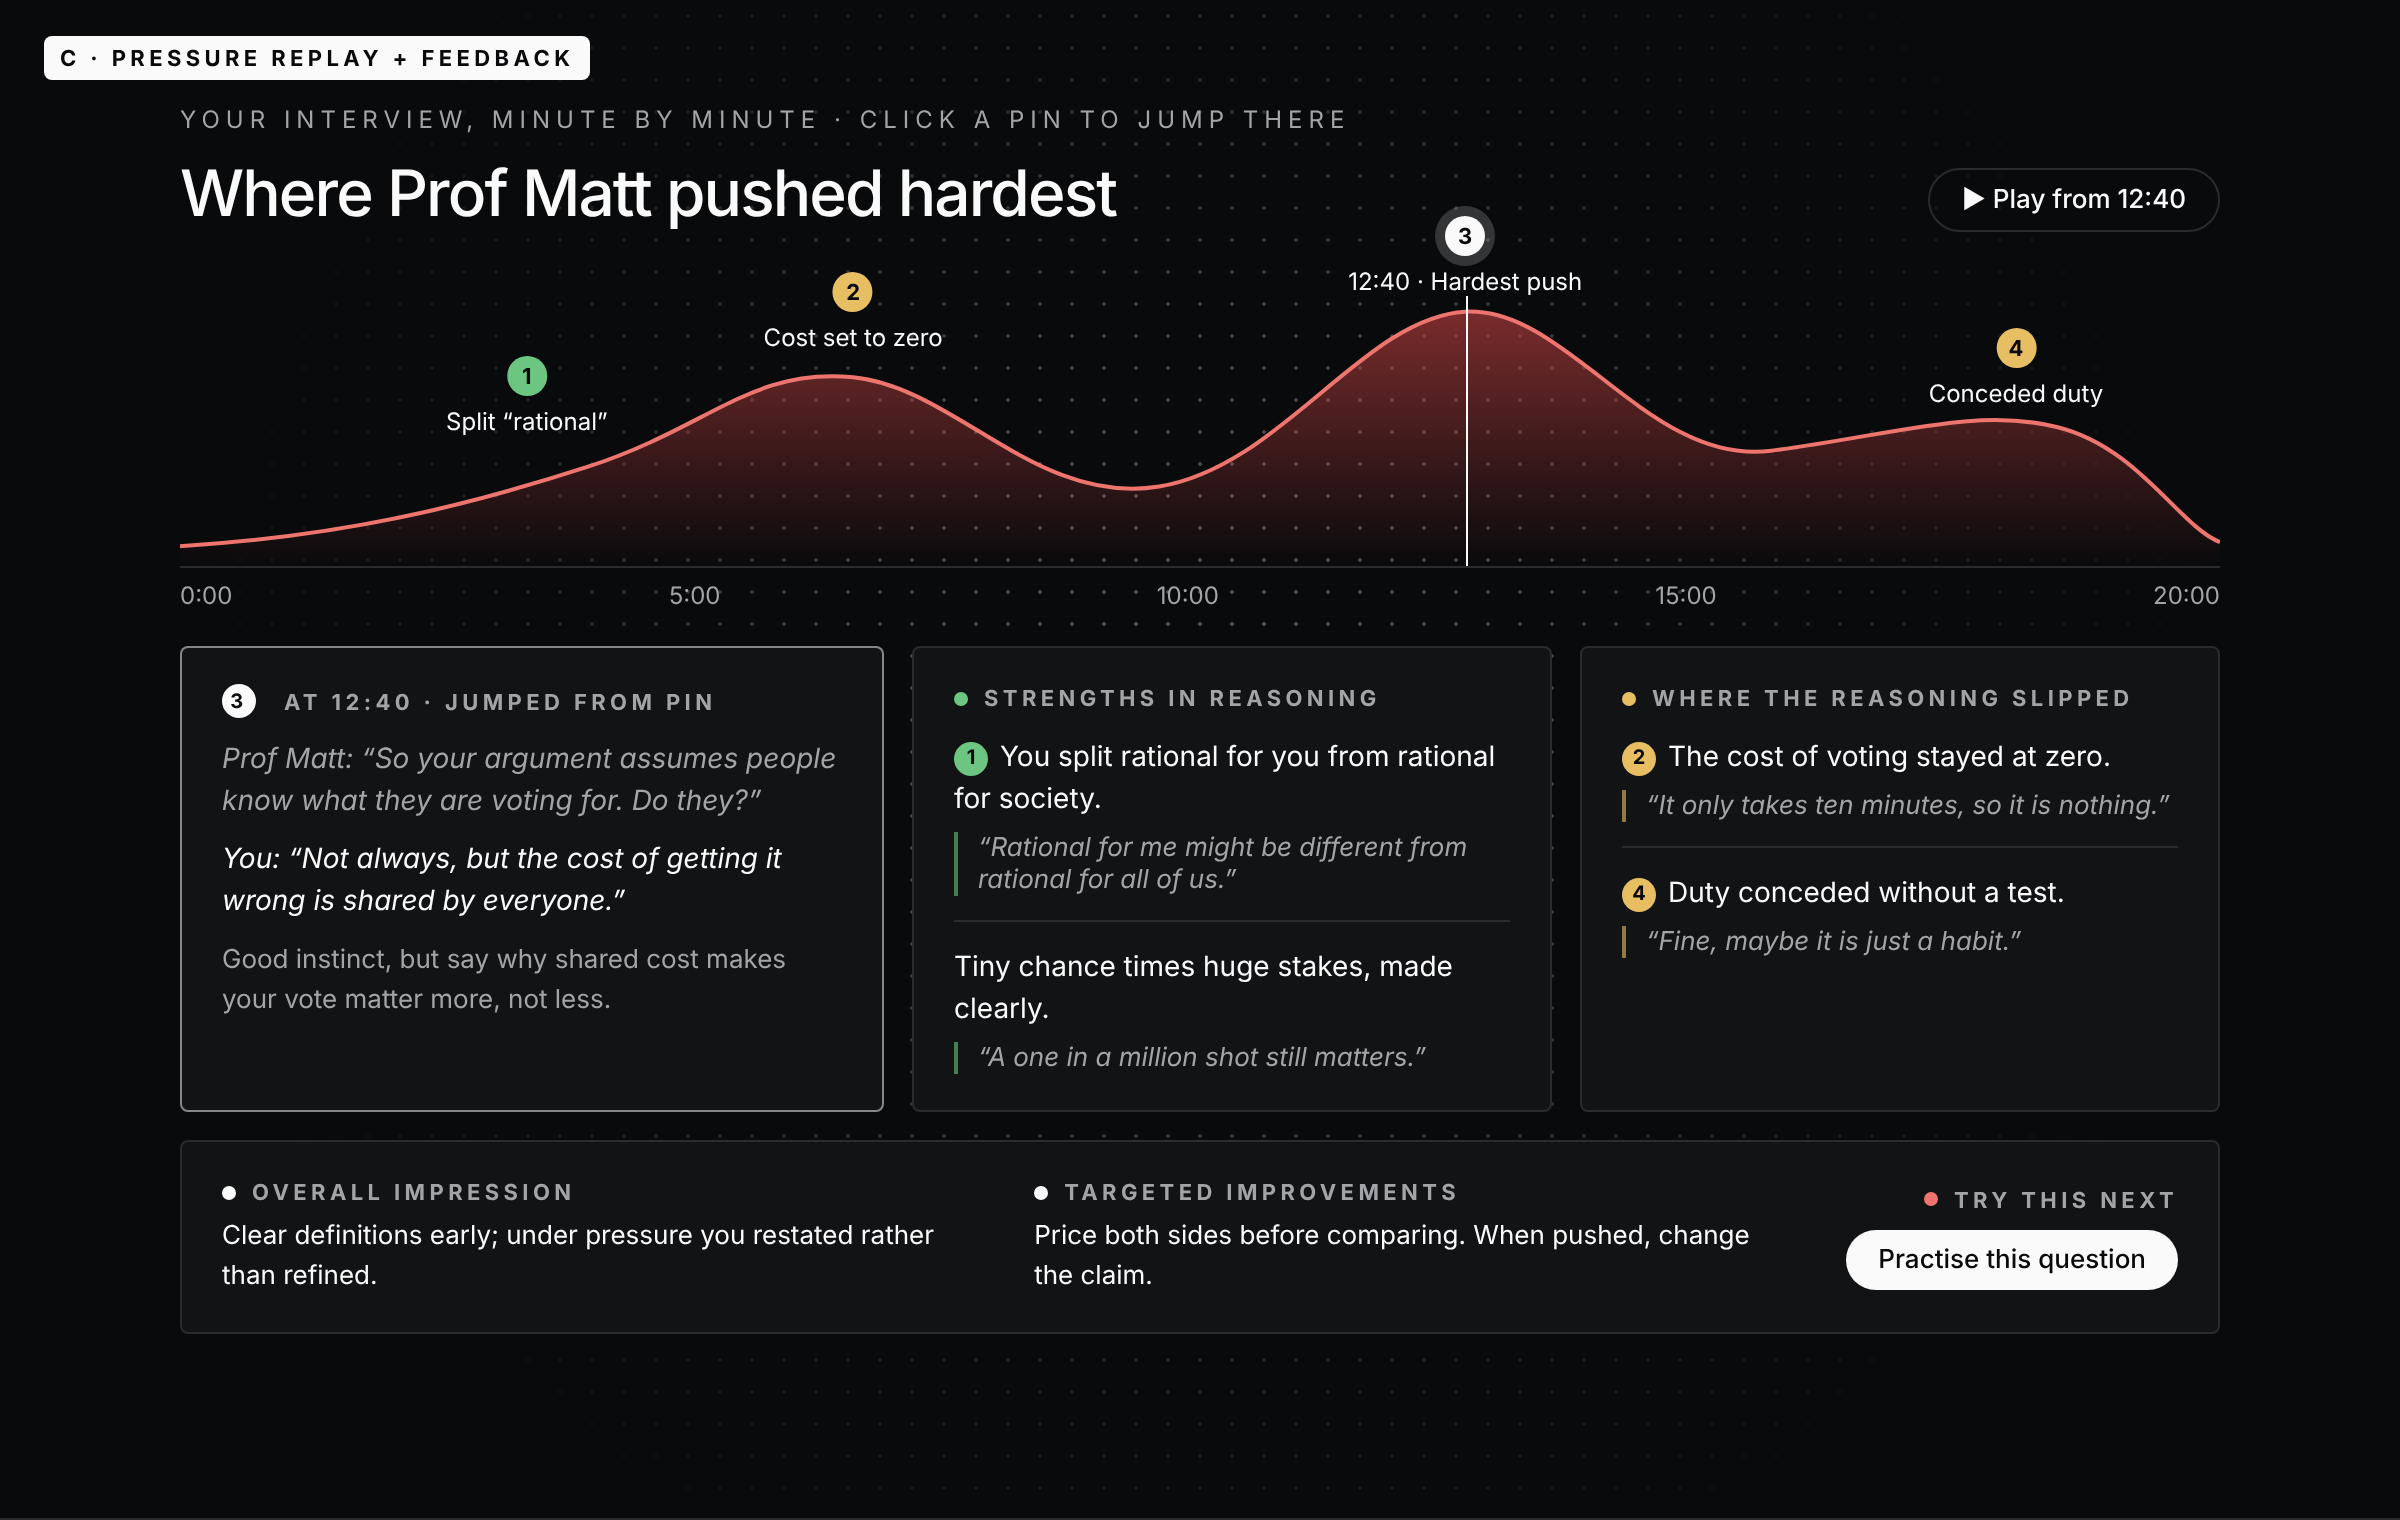
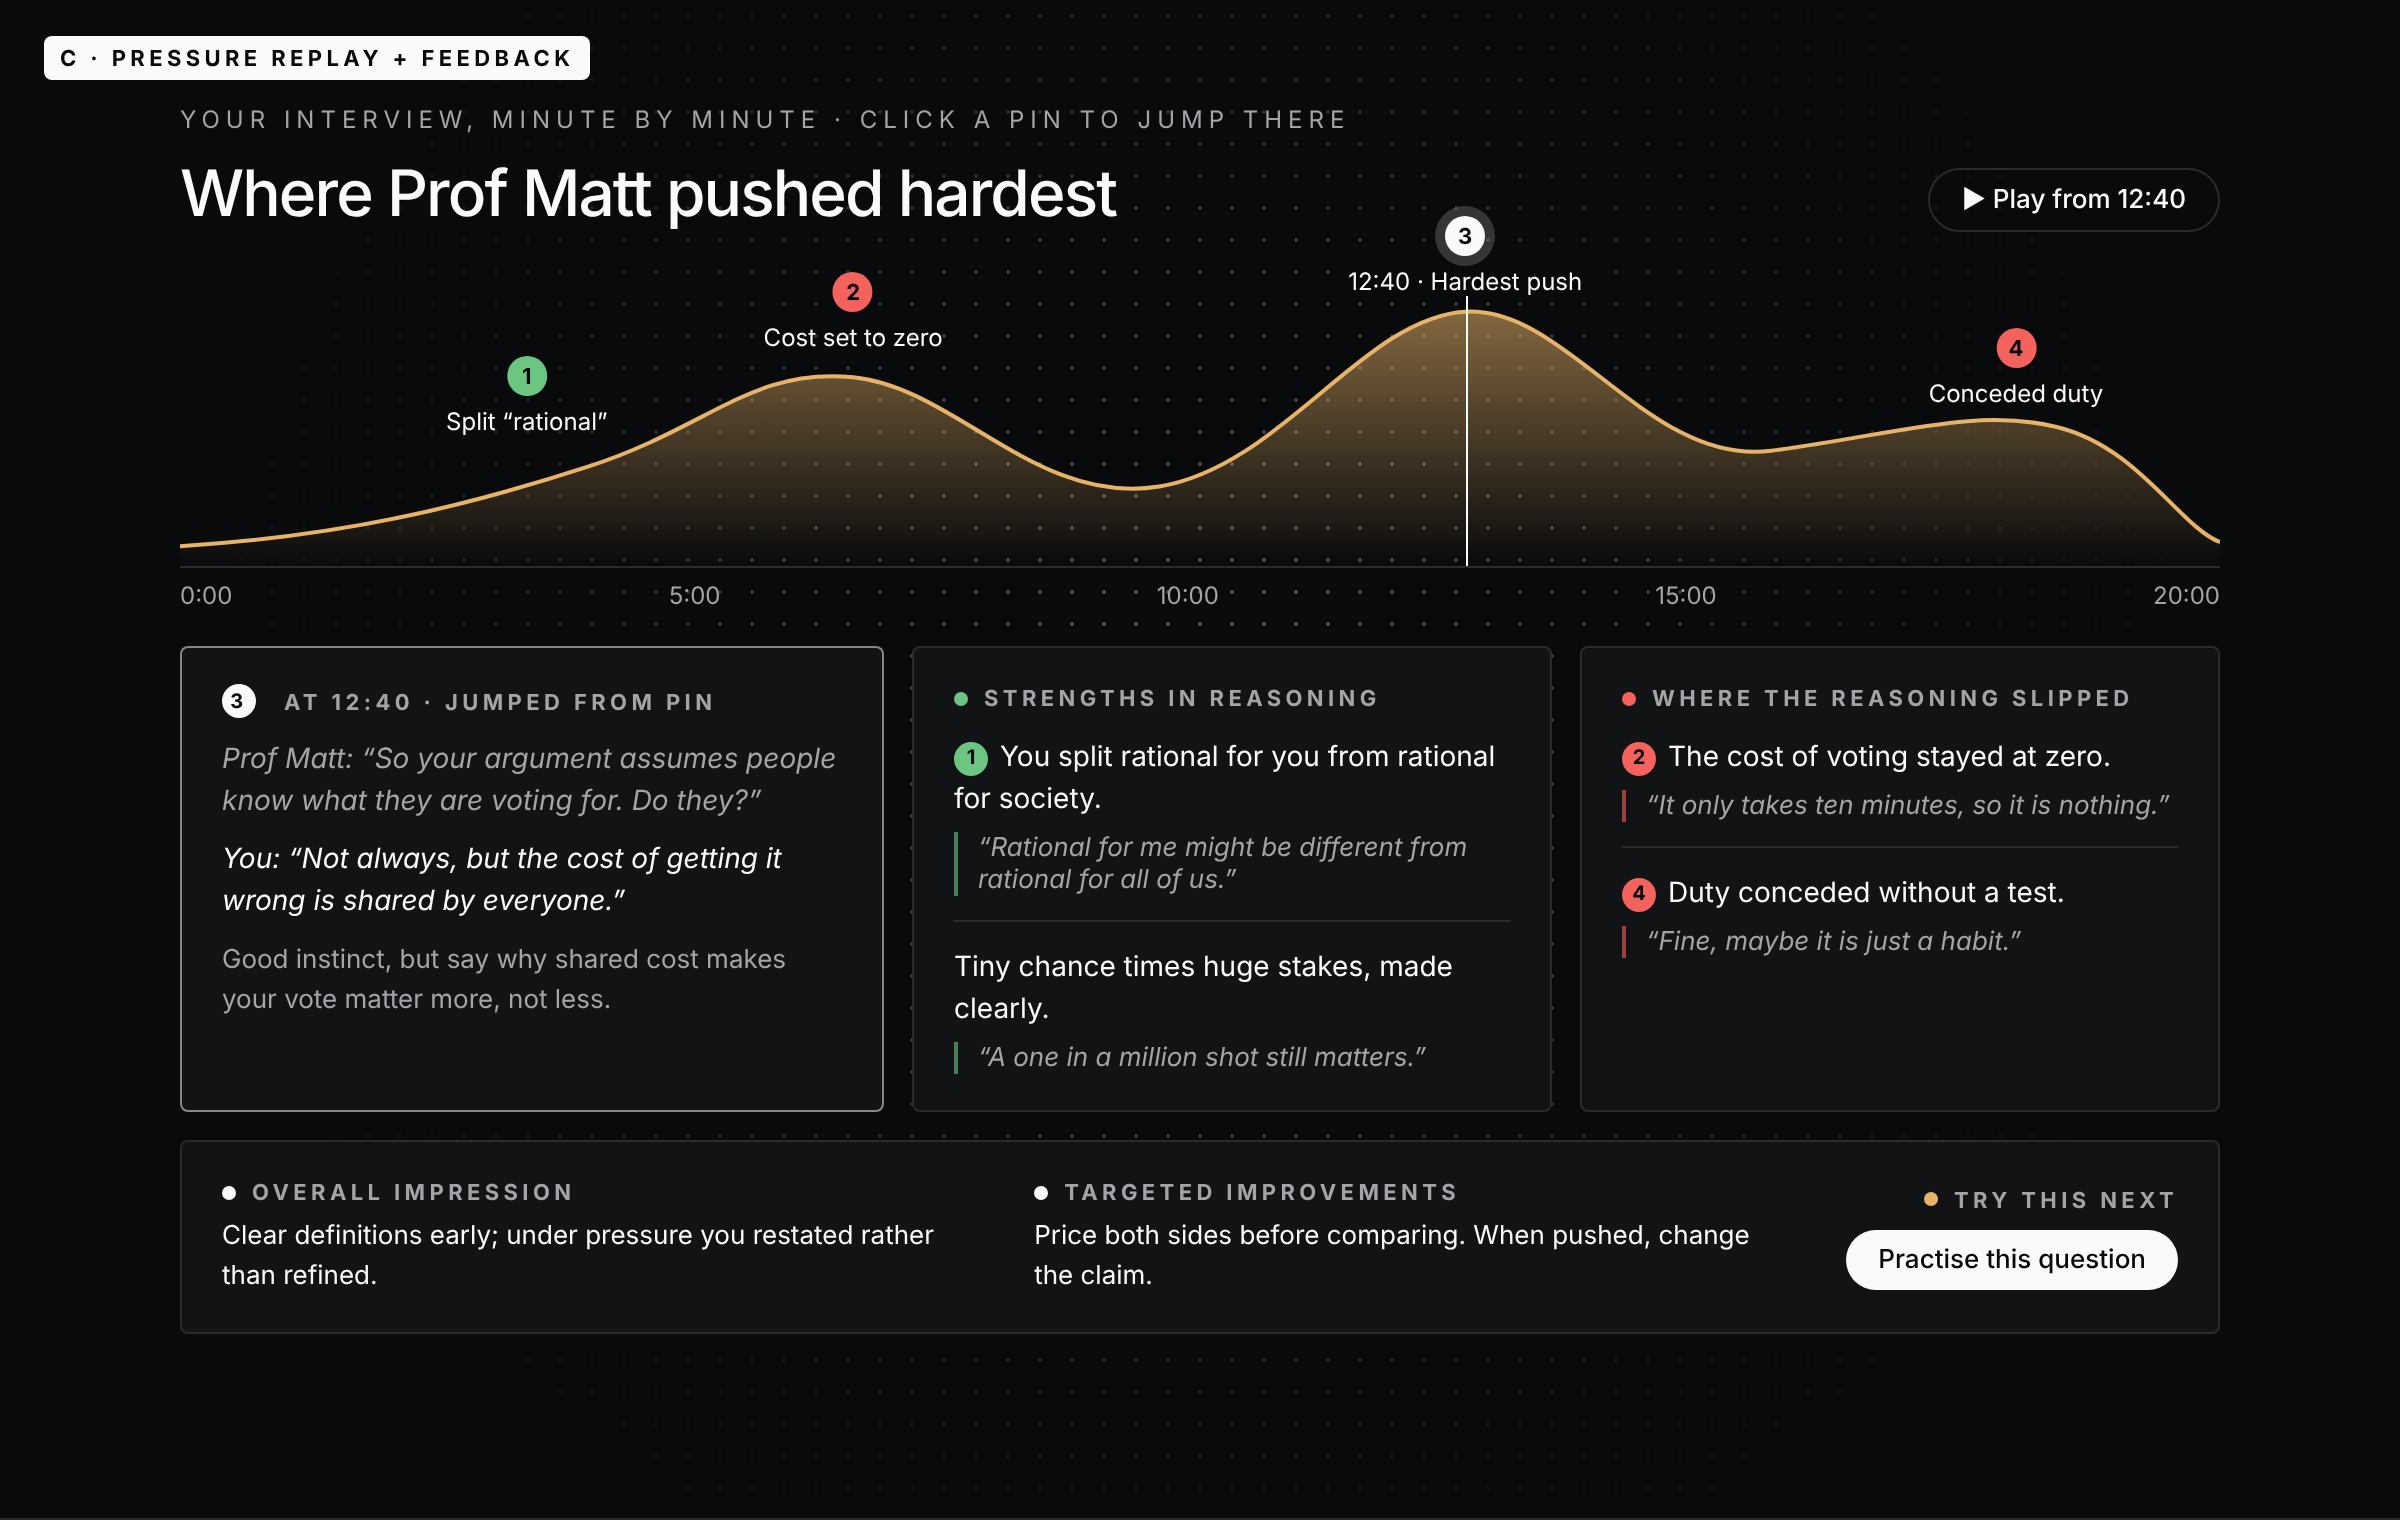
style: Prof Matt back to gold
Orb and round-2 mockups use gold again; slip markers in the mockups go
back to red so they don't clash with Prof Matt.

Claude-Session: https://claude.ai/code/session_01DcrRJLvyVtMMi7u5NMJjWe

diff --git a/docs/idea-mockups/round-2.html b/docs/idea-mockups/round-2.html
@@ -8,9 +8,9 @@
   :root {
     --bg: oklch(0.145 0.004 270); --fg: oklch(0.985 0 0); --card: oklch(0.185 0.004 270);
     --muted: oklch(0.27 0.004 270); --mfg: oklch(0.72 0.005 270); --border: oklch(0.29 0.004 270);
-    --matt: oklch(0.7 0.15 25); --matt-core: radial-gradient(circle at 38% 32%, oklch(0.8 0.12 25), oklch(0.52 0.17 25) 58%, oklch(0.26 0.08 20));
-    --matt-glow: oklch(0.6 0.18 25 / 0.42); --matt-ring: oklch(0.7 0.15 25 / 0.5);
-    --held: oklch(0.75 0.13 150); --slip: oklch(0.82 0.12 85);
+    --matt: oklch(0.8 0.11 75); --matt-core: radial-gradient(circle at 38% 32%, oklch(0.9 0.1 80), oklch(0.62 0.13 55) 58%, oklch(0.3 0.06 45));
+    --matt-glow: oklch(0.75 0.12 70 / 0.4); --matt-ring: oklch(0.8 0.11 75 / 0.5);
+    --held: oklch(0.75 0.13 150); --slip: oklch(0.68 0.18 25);
   }
   * { box-sizing: border-box; margin: 0; padding: 0; }
   body { background: var(--bg); color: var(--fg); font-family: Inter, system-ui, -apple-system, "Segoe UI", Roboto, sans-serif; }
@@ -52,7 +52,7 @@
   .fb .item + .item { padding-top: 12px; border-top: 1px solid var(--border); }
   .fb q { display: block; quotes: "\201C" "\201D"; margin-top: 6px; font-size: 13px; font-style: italic; color: var(--mfg); padding-left: 10px; border-left: 2px solid var(--border); }
   .fb.held q { border-left-color: oklch(0.75 0.13 150 / .6); }
-  .fb.slip q { border-left-color: oklch(0.82 0.12 85 / .6); }
+  .fb.slip q { border-left-color: oklch(0.68 0.18 25 / .6); }
   .fb.held h3 i { background: var(--held); } .fb.slip h3 i { background: var(--slip); }
   .fb ol { margin-top: 10px; padding-left: 18px; font-size: 14px; line-height: 1.5; }
   .fb ol li + li { margin-top: 6px; }
@@ -61,7 +61,7 @@
   /* B */
   .gridB { display: grid; grid-template-columns: 1fr 1fr; gap: 14px; margin-top: 26px; }
   #b .fb { padding: 20px 22px; }
-  .next { grid-column: 1 / -1; display: flex; align-items: center; justify-content: space-between; gap: 24px; border-color: oklch(0.7 0.15 25 / .45); }
+  .next { grid-column: 1 / -1; display: flex; align-items: center; justify-content: space-between; gap: 24px; border-color: oklch(0.8 0.11 75 / .45); }
 
   /* C */
   .tl { position: relative; height: 150px; margin-top: 18px; border-bottom: 1px solid var(--border); }
@@ -82,7 +82,7 @@
   .letter .q { font-style: italic; }
   .letter .seal { position: absolute; right: 46px; bottom: 34px; width: 74px; height: 74px; }
   .letter .seal .core { box-shadow: 0 0 28px var(--matt-glow), 0 6px 14px #0005; }
-  .letter .seal .ring { border-color: oklch(0.52 0.17 25 / .55); inset: -10%; }
+  .letter .seal .ring { border-color: oklch(0.62 0.13 55 / .55); inset: -10%; }
   .letter .seal .ring.r2 { inset: -22%; border-style: dashed; }
   .letter .seal span { position: absolute; inset: 0; display: grid; place-items: center; color: oklch(0.95 0.03 30); font-weight: 700; font-size: 18px; letter-spacing: .04em; }
   .letter .ps { font-size: 13px; border-top: 1px solid oklch(0.24 0.02 60 / .18); padding-top: 12px; margin-top: 16px; }
@@ -155,9 +155,9 @@
     </div>
     <div class="tl">
       <svg viewBox="0 0 1000 150" preserveAspectRatio="none">
-        <defs><linearGradient id="gr" x1="0" x2="0" y1="0" y2="1"><stop offset="0" stop-color="oklch(0.6 0.18 25)" stop-opacity=".55"/><stop offset="1" stop-color="oklch(0.6 0.18 25)" stop-opacity="0"/></linearGradient></defs>
+        <defs><linearGradient id="gr" x1="0" x2="0" y1="0" y2="1"><stop offset="0" stop-color="oklch(0.8 0.11 75)" stop-opacity=".55"/><stop offset="1" stop-color="oklch(0.8 0.11 75)" stop-opacity="0"/></linearGradient></defs>
         <path d="M0 140 C80 135 140 120 200 100 S280 50 330 55 S420 120 480 110 S580 25 630 22 S720 100 780 92 S880 70 920 80 S980 130 1000 138 L1000 150 L0 150Z" fill="url(#gr)"/>
-        <path d="M0 140 C80 135 140 120 200 100 S280 50 330 55 S420 120 480 110 S580 25 630 22 S720 100 780 92 S880 70 920 80 S980 130 1000 138" fill="none" stroke="oklch(0.7 0.15 25)" stroke-width="2" vector-effect="non-scaling-stroke"/>
+        <path d="M0 140 C80 135 140 120 200 100 S280 50 330 55 S420 120 480 110 S580 25 630 22 S720 100 780 92 S880 70 920 80 S980 130 1000 138" fill="none" stroke="oklch(0.8 0.11 75)" stroke-width="2" vector-effect="non-scaling-stroke"/>
       </svg>
       <div class="playhead" style="left:63%"></div>
       <div class="pin" style="left:17%; top:44px"><b style="background:var(--held)">1</b>Split “rational”</div>

diff --git a/src/components/TutorOrb.tsx b/src/components/TutorOrb.tsx
@@ -10,9 +10,9 @@ const TONES = {
     ring: "oklch(0.78 0.09 200 / 0.5)",
   },
   matt: {
-    core: "radial-gradient(circle at 38% 32%, oklch(0.8 0.12 25), oklch(0.52 0.17 25) 58%, oklch(0.26 0.08 20))",
-    glow: "oklch(0.6 0.18 25 / 0.42)",
-    ring: "oklch(0.7 0.15 25 / 0.5)",
+    core: "radial-gradient(circle at 38% 32%, oklch(0.9 0.1 80), oklch(0.62 0.13 55) 58%, oklch(0.3 0.06 45))",
+    glow: "oklch(0.75 0.12 70 / 0.4)",
+    ring: "oklch(0.8 0.11 75 / 0.5)",
   },
 } as const;
 
